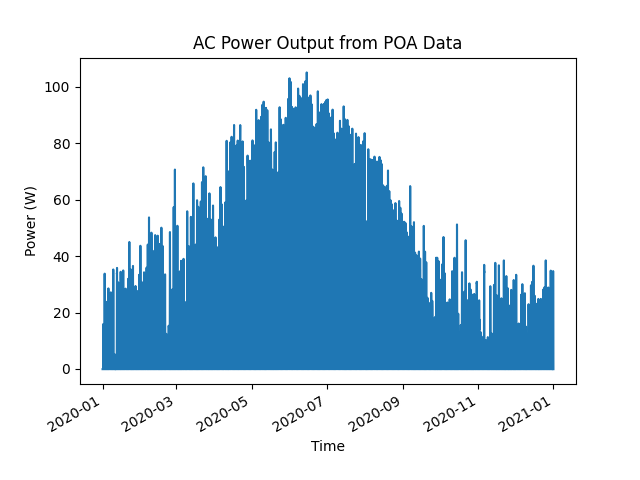
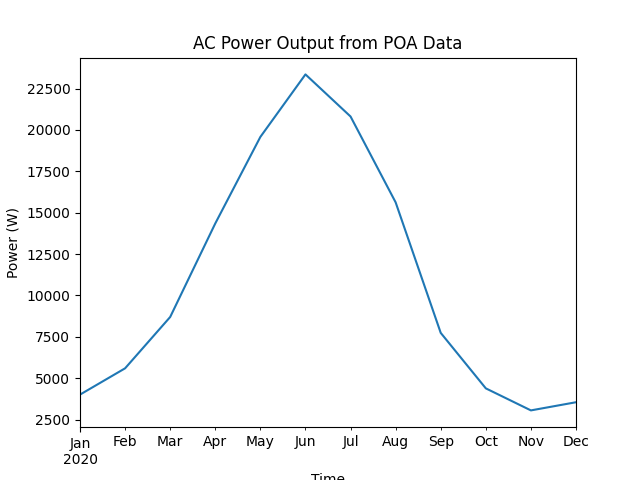
Spec sheet based PV model.

diff --git a/spec_sheet_modeling.py b/spec_sheet_modeling.py
@@ -1,0 +1,74 @@
+import pvlib
+import pandas as pd
+import matplotlib.pyplot as plt
+from main import location, poa_data_2020
+from pvlib.location import Location
+from pvlib.modelchain import ModelChain
+
+celltype = "monosi"
+pdc0 = 400
+v_mp = 44.1
+i_mp = 9.08
+v_oc = 53.4
+i_sc = 9.60
+alpha_sc = 0.0005 * i_mp
+beta_pdc = -0.0029 * v_mp
+gamma_pdc = - 0.0037
+cells_in_series = 6*27
+temp_ref = 25
+
+location = Location(latitude=41.662, longitude=-83.612, tz='America/Detroit', altitude=187, name='McMaster')
+
+surface_tilt = 45
+surface_azimuth = 180
+
+start = "2020-07-01 00:00"
+end = "2020-07-07 23:00"
+
+poa_data_2020 = pd.read_csv("poa_data_2020.csv", index_col=0)
+poa_data_2020.index = pd.date_range(start="2020-01-01 00:00", periods=len(poa_data_2020.index), freq="h")
+poa_data = poa_data_2020[start:end]
+
+solar_position = location.get_solarposition(times = pd.date_range(start=start, end=end, freq = "h"))
+
+aoi = pvlib.irradiance.aoi(
+    surface_tilt=surface_tilt, 
+    surface_azimuth=surface_azimuth, 
+    solar_zenith=solar_position.apparent_zenith, 
+    solar_azimuth=solar_position.azimuth
+)
+
+iam = pvlib.iam.ashrae(aoi)
+
+effective_irradiance = poa_data["poa_direct"] * iam + poa_data["poa_diffuse"]
+
+temp_cell = pvlib.temperature.faiman(poa_data["poa_global"], poa_data["temp_air"], poa_data["wind_speed"])
+
+result_dc = pvlib.pvsystem.pvwatts_dc(
+    effective_irradiance,
+    temp_cell,
+    pdc0,
+    gamma_pdc,
+    temp_ref=25
+)
+
+result_dc.plot()
+plt.title('Custom DC Power Output')
+plt.xlabel('Time')
+plt.ylabel('Power (W)')
+plt.savefig('custom_dc_power_output.png')
+plt.close()
+
+result_ac = pvlib.pvsystem.inverter.pvwatts(
+    pdc=result_dc,
+    pdc0=200, # inverted max power
+    eta_inv_nom=0.96,
+    eta_inv_ref=0.96,
+)
+
+result_ac.plot()
+plt.title('Custom AC Power Output')
+plt.xlabel('Time')
+plt.ylabel('Power (W)')
+plt.savefig('custom_ac_power_output.png')
+plt.close()

diff --git a/main.py b/main.py
@@ -84,7 +84,7 @@ poa_data_2020 = pd.read_csv("poa_data_2020.csv", index_col=0)
 poa_data_2020.index = pd.to_datetime(poa_data_2020.index)
 
 modelChain.run_model_from_poa(poa_data_2020)
-modelChain.results.ac.plot()
+modelChain.results.ac.resample("M").sum().plot()
 plt.title('AC Power Output from POA Data')
 plt.xlabel('Time')
 plt.ylabel('Power (W)')
